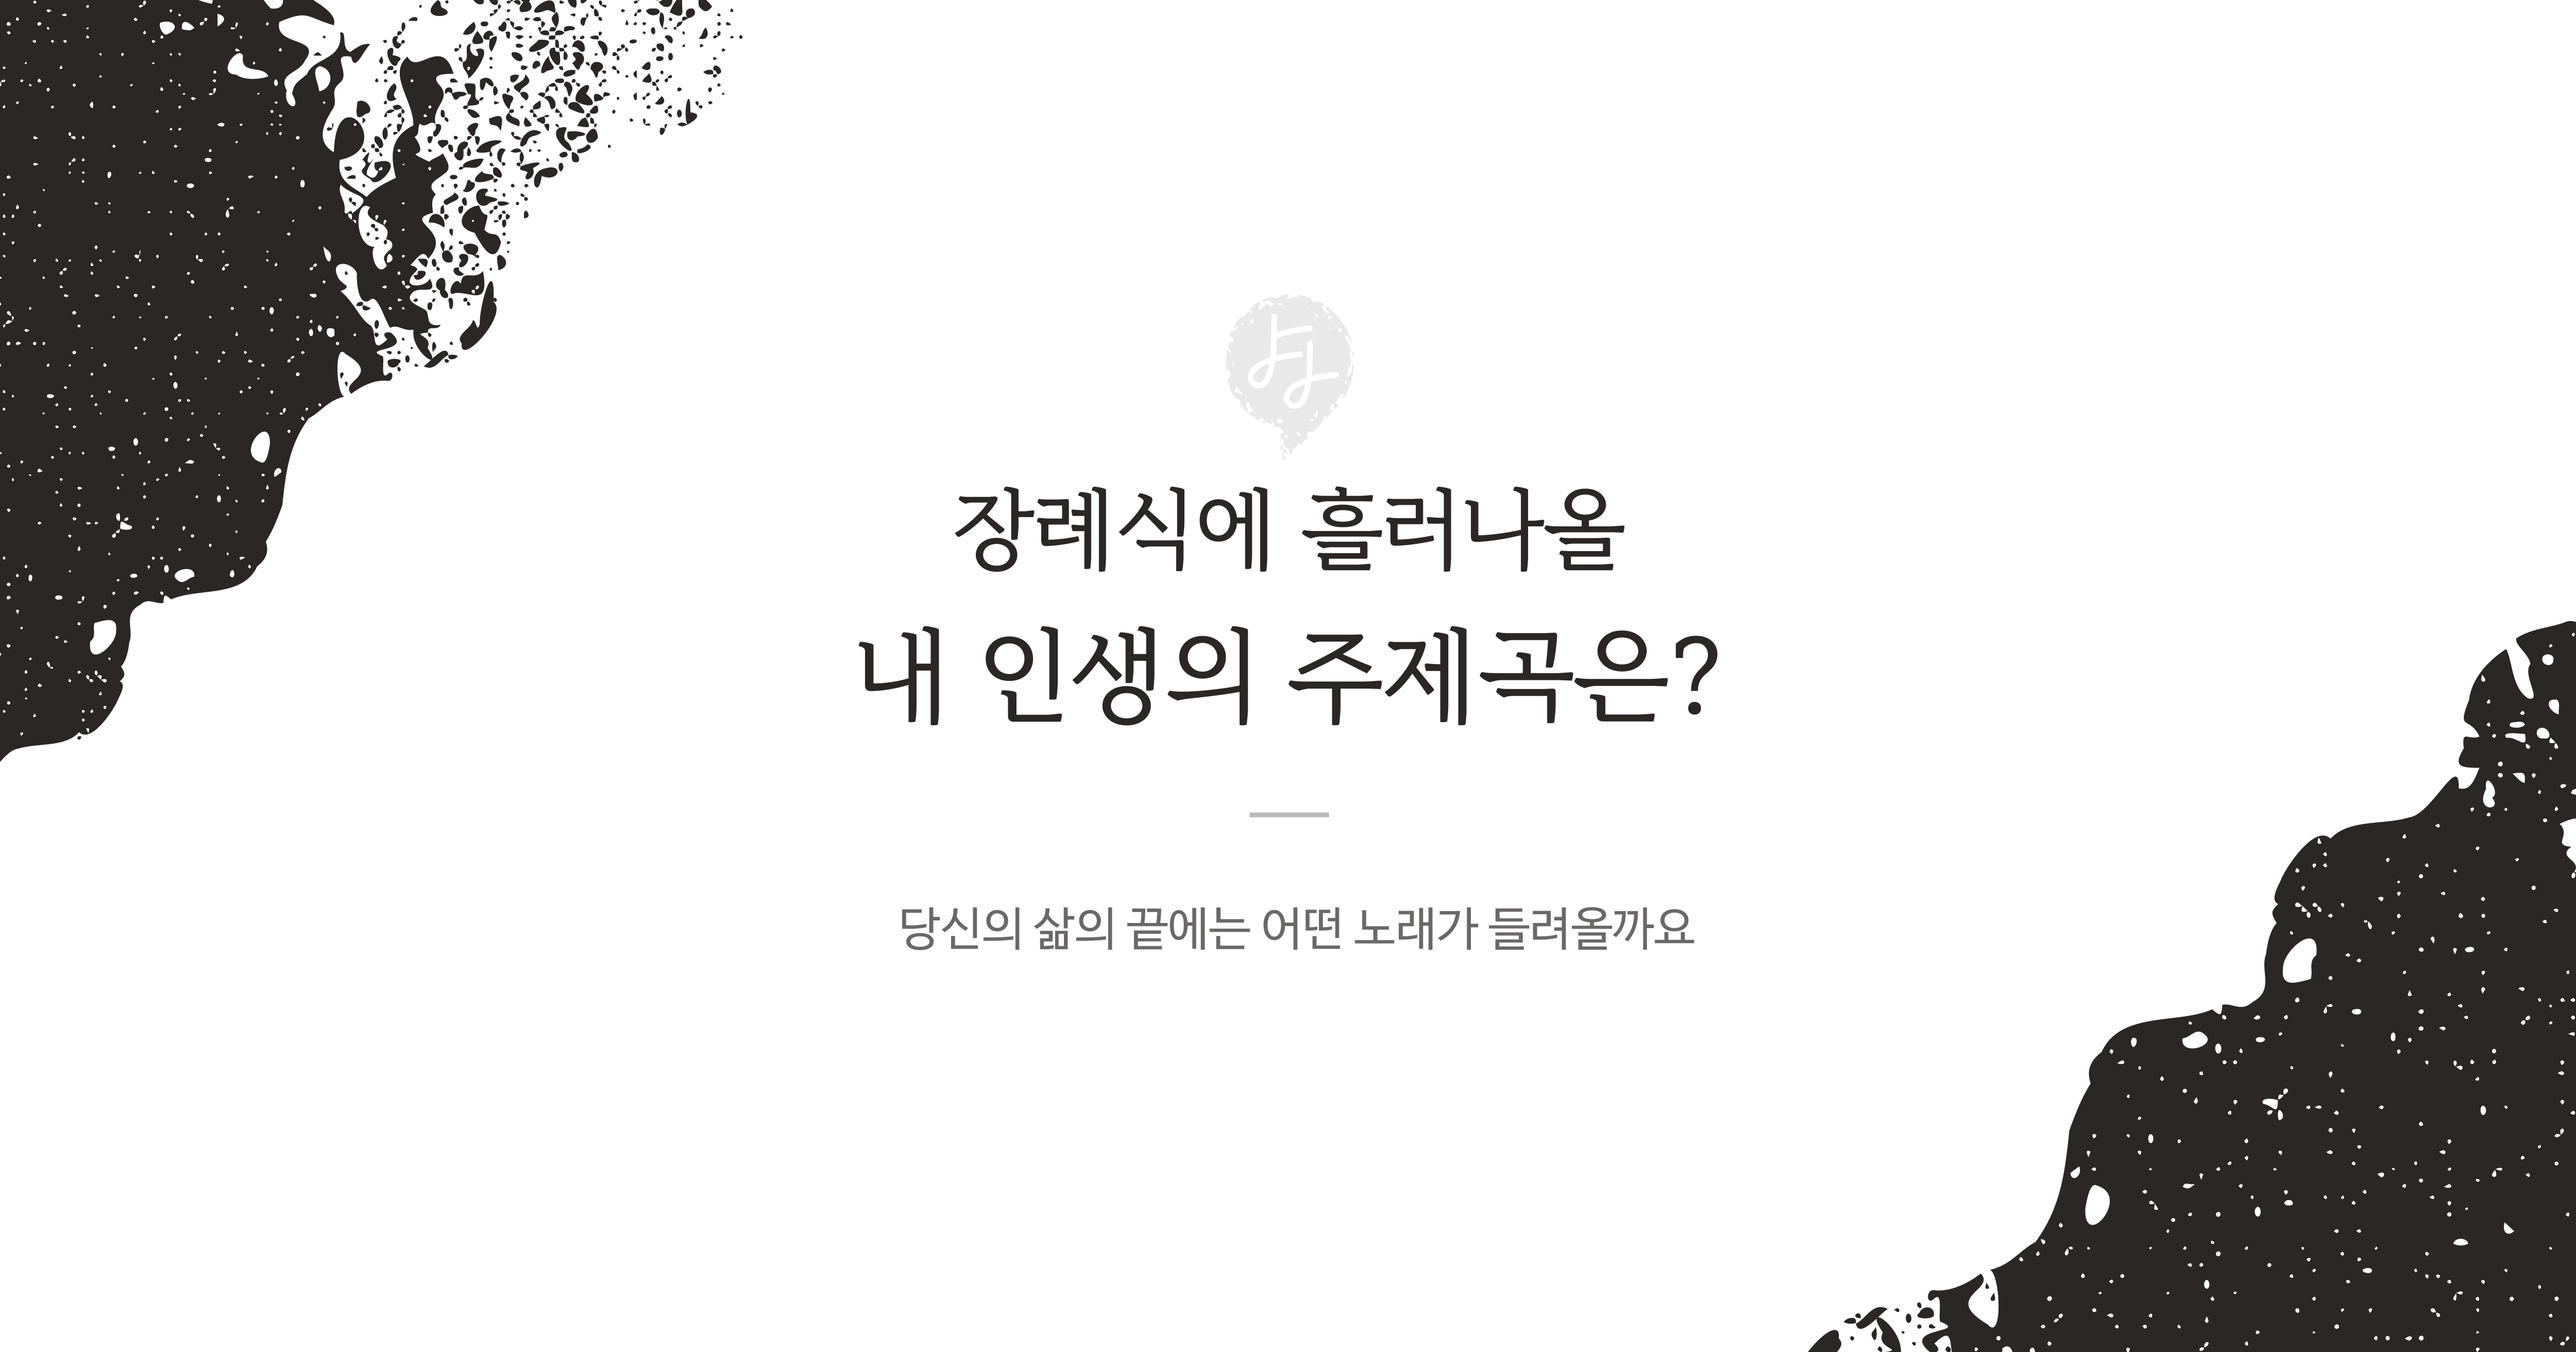
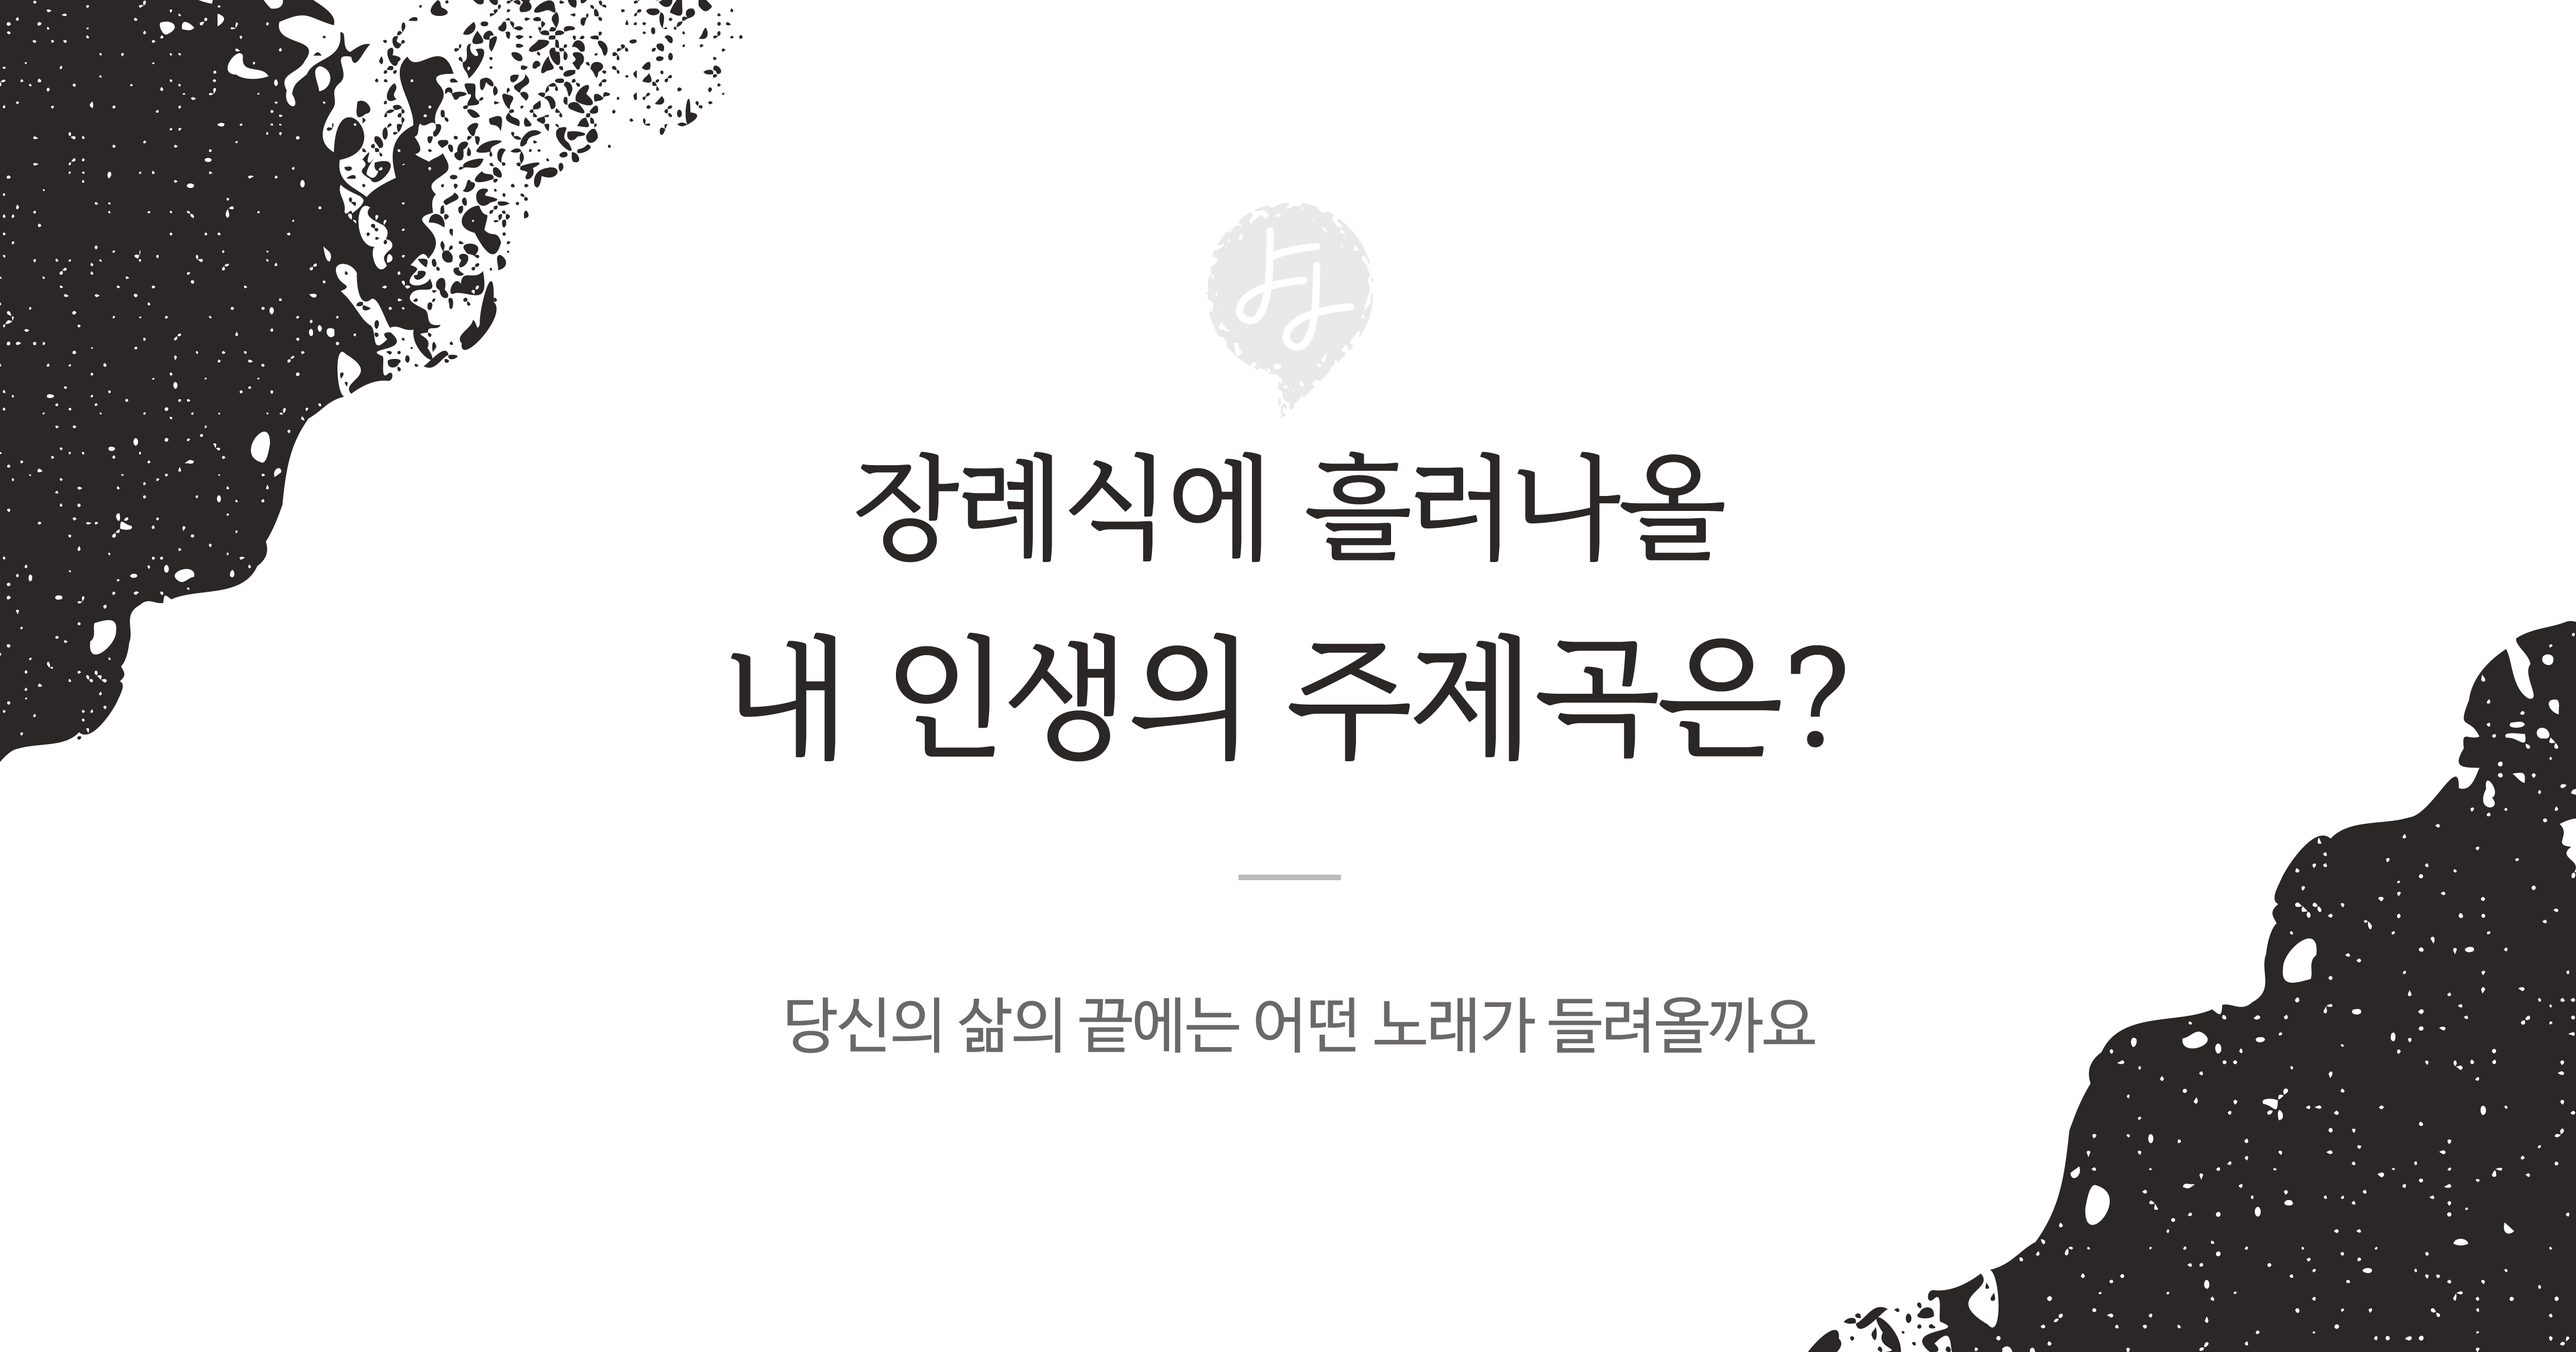
main og img, share update

Changed region(s): [[0.312, 0.656, 0.7176, 0.781], [0.2808, 0.4686, 0.7176, 0.5623], [0.3432, 0.3436, 0.6864, 0.4373]]

diff --git a/templates/music/result.html b/templates/music/result.html
@@ -73,8 +73,11 @@
         <button class=" r-btn button " onclick = "location.href = 'https://tumblbug.com/galpi_me' ">낯선 목소리 정체 밝히기</button>
         <button class=" r-btn rf-btn button " onclick = "location.href = '{% url "music:main" %}' ">테스트 다시하기</button>
 
-        <a class="main__copy r-copy" href="#" onclick="clip(); return false;">주소 복사하기</a>
+        <div class="main__copy fadeup-ani">결과 공유하기</div>
         <div class="main_share">
+            <a id="btnLink" class="link-icon twitter" href="#" onclick="clip(); return false;">
+                <img src="../../static/img/share/sicon_link.svg" alt="링크">
+            </a>
             <a id="btnKakao" class="link-icon kakao" href="#" onclick="kakaoResultShare('{{ result.song }}', '{{ result.singer }}', '{{ result.pk }}'); return false;">
                 <img src="../../static/img/share/sicon_kakao.svg" id="kakao-link-btn" alt="카카오">
             </a>   

diff --git a/templates/music/main.html b/templates/music/main.html
@@ -25,8 +25,11 @@
 	<button class="main-btn button fadeup-ani " onclick = "location.href = '{% url "music:start" %}' ">시작하기</button>
 	<button class="main-btn button fadeup-ani " onclick = "location.href = 'https://tumblbug.com/galpi_me' ">갈피 프로젝트 ▶</button>
 
-	<a class="main__copy fadeup-ani" href="#" onclick="clip(); return false;">주소 복사하기</a>
+	<div class="main__copy fadeup-ani">결과 공유하기</div>
 	<div class="main_share fadeup-ani">
+		<a id="btnLink" class="link-icon twitter" href="#" onclick="clip(); return false;">
+			<img src="../../static/img/share/sicon_link.svg" alt="링크">
+		</a>
 		<a id="btnKakao" class="link-icon kakao" href="javascript:sendLinkCustom();" onclick="sendLinkCustom(); return false;">
 			<img src="../../static/img/share/sicon_kakao.svg" id="kakao-link-btn" alt="카카오">
 		</a>     
